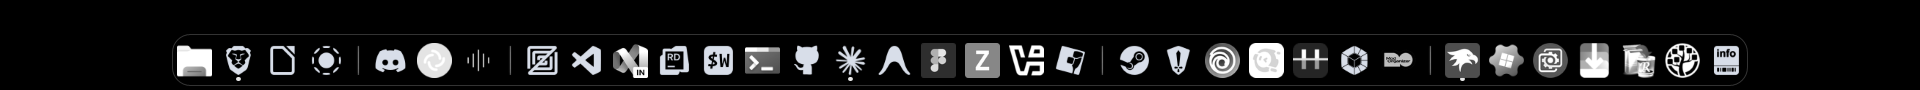
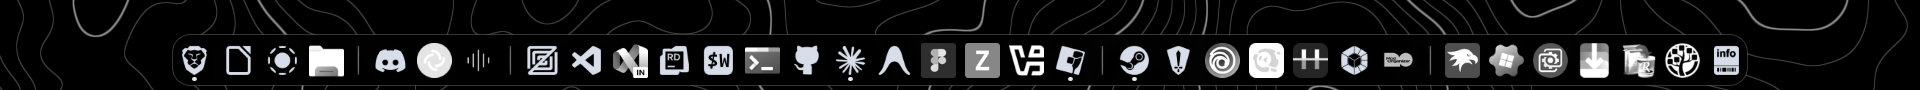
docs(screenshots): retake desktop and laptop shots with OLED Span
The four Windows shots and three laptop shots now show the OLED Span
wallpaper. Laptop desktop icons were hidden for the shot instead of
blanked out. The screenshot notes and desktop profile are updated to
match.

diff --git a/docs/screenshots/README.md b/docs/screenshots/README.md
@@ -1,7 +1,8 @@
 # Screenshots
 
 Reference shots of the finished **OLED Monochrome** setup, taken on 22 November 2026 with all
-windows minimised. Use them to check a rebuild (the [`INSTALL-WITH-AI.md`](../../INSTALL-WITH-AI.md)
+windows minimised, with the [OLED Span](../../strata/40-apps/oled-span/) wallpaper (contours style)
+on both machines. Use them to check a rebuild (the [`INSTALL-WITH-AI.md`](../../INSTALL-WITH-AI.md)
 prompt tells the agent to compare against them).
 
 ## Windows 11 desktop
@@ -12,7 +13,7 @@ prompt tells the agent to compare against them).
 | [`windows-top-bar.png`](windows-top-bar.png) | The top bar on its own. |
 | [`windows-dock.png`](windows-dock.png) | The dock on its own: separators between app groups, running dots. |
 | [`windows-start-search.png`](windows-start-search.png) | The search-only Start menu: black pane, dark grey field, monochrome search glyph. |
-| [`windows-second-screen.png`](windows-second-screen.png) | Second monitor: the same top bar, without the tray. |
+| [`windows-second-screen.png`](windows-second-screen.png) | Second monitor (16:10): the same top bar, without the tray. The wallpaper carries on from the main screen. |
 
 Setup: [`strata/40-apps/windhawk/`](../../strata/40-apps/windhawk/), [`strata/40-apps/yasb/`](../../strata/40-apps/yasb/),
 [`strata/10-os/windows/`](../../strata/10-os/windows/).
@@ -26,10 +27,9 @@ Setup: [`strata/40-apps/windhawk/`](../../strata/40-apps/windhawk/), [`strata/40
 | [`laptop-dock.png`](laptop-dock.png) | The dock on its own. |
 
 Setup: [`hosts/laptop/`](../../hosts/laptop/), [`strata/40-apps/kde-dock/`](../../strata/40-apps/kde-dock/),
-[`strata/40-apps/ai-usage/`](../../strata/40-apps/ai-usage/).
+[`strata/40-apps/ai-usage/`](../../strata/40-apps/ai-usage/), [`strata/40-apps/oled-span/`](../../strata/40-apps/oled-span/).
 
 ## Left out
 
-The wallpapers are third-party images and aren't part of the repository; use your own. The
-calendar-event widget was hidden while taking the Windows shots, and the laptop's desktop icons were
-blanked out, because both show personal names.
+The calendar-event widget was hidden while taking the Windows shots, and the laptop's desktop icons
+were hidden (the desktop pointed at an empty folder for the shot), because both show personal names.

diff --git a/hosts/desktop/README.md b/hosts/desktop/README.md
@@ -22,9 +22,8 @@ This profile standardizes the workstation environment for **Windows 11 Pro**, ta
 
 Wallpaper Engine runs **OLED Span**, a procedural black-and-white scene stretched across both
 screens (the 16:9 main screen and the 16:10 one beside it); see
-[`strata/40-apps/oled-span/`](../../strata/40-apps/oled-span/). The shots in
-[`docs/screenshots/`](../../docs/screenshots/), including the second screen, were taken earlier, with
-Workshop wallpapers 3725918788 and 3557068717.
+[`strata/40-apps/oled-span/`](../../strata/40-apps/oled-span/). More shots, including the second
+screen, are in [`docs/screenshots/`](../../docs/screenshots/).
 
 ---
 
